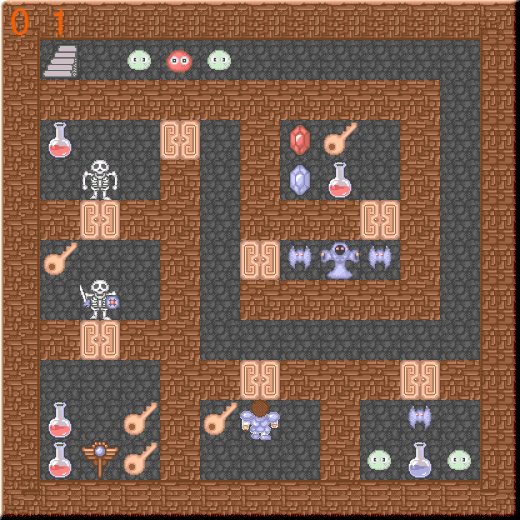
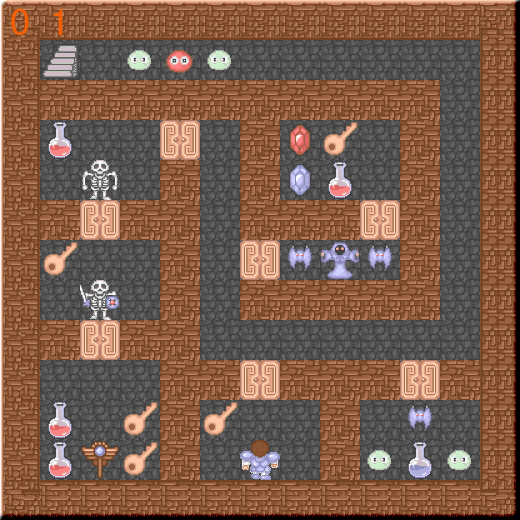
魔塔1: 实机(08 Java)确认值回填 —— 起点 (6,11)、初始 1000/100/100/0、按键映射与 keyUp 要求
08 实机（Xvfb + 反射 keyDown(java.awt.Event,int)）读得：
 - mapObject[66..69][118] = 1000/100/100/0（与 01 的 INITIAL.DAT 头部 u16[0..2]=1000/100/100 一致）；
 - 1F 勇者起点格为 (6,11)（charaX=30,charaY=55），我先前渲染的 (6,10) 是错的 ⇒ 图与文档均已更正；
 - 按键：上 56 / 右 54 / 下 52 / 左 50，且必须补发 keyUp，否则下一次按键被吞。
作废一个错误说法：我曾把字段 xp=150 读成"08 开局 HP150/ATK10/DEF10"，实际 xp/yp 是地图区像素原点。
MAP_NOTES 新增 §9：速通验证进度、3F 魔导师(obj58, DEF100 ⇒ ATK100 每击 0)未复现触发条件、
以及"若魔导师在进 3F 时存在则 3F 静态 BFS 到不了上行梯"的推论与环境重跑命令。

Changed region(s): [[0.4615, 0.7692, 0.5538, 0.9231]]

diff --git a/01_PC98原版_mtower/MAP_NOTES.md b/01_PC98原版_mtower/MAP_NOTES.md
@@ -35,7 +35,7 @@
   `slot8 = 图鉴 catalog`，`slot9 = stage_flags`。序号 51/53..58 未用。
 - 引擎里 `mapX`=slot、`mapY`=band，楼层序号 = `mapY*10 + mapX + 1`；`eventMT` 里两处硬编码特例
   `index==1 ↔ index==52` 构成 **1F 与 00 层互连**（两块的楼梯都在 (1,1)）——所以 23F 的 "GO 0F" 只是提示，
-  49F/50F 与 00 层无关。角色格 = `charaX/5 × charaY/5`（1F 起点 (6,10)）。
+  49F/50F 与 00 层无关。角色格 = `charaX/5 × charaY/5`（1F 起点 (6,11)，08 实机确认）。
 - 主角与道具状态也塞在 stage_flags 块里：HP/ATK/DEF/GOLD = `mapObject[66..69][118]`，
   「持有十字架」`mapObject[74][119]==1`（对 id 48/49/59 翻倍）、「持有屠龙匕」`mapObject[70][120]==1`（对 id 74 翻倍）。
 
@@ -124,3 +124,17 @@
 | `magic_tower1_texts.md` | 309 条塔内文案（日/英 + 引用方式 + 出现层 + 12 个分组），从 README 拆出 |
 | `tools/` | `dynscan.py` `register_boss.py` `gen_monster_table.py` `gen_texts.py` |
 | `01_PC98原版_mtower.fdi` / `game/` | 原始软盘映像与其内 23 个文件 |
+
+## 9. 速通验证进度与实机测得的关键值（2026-10-23）
+
+- **实机（08 Java 版，Xvfb + 反射 `keyDown(java.awt.Event,int)`）已确认**：
+  初始 `mapObject[66..69][118] = 1000/100/100/0`；1F 起点格 **(6,11)**；按键映射 **上=56、右=54、下=52、左=50**；
+  必须补发 `keyUp`，否则下一次按键会被吞（我第一版就因此"111 键还在 1F"）。
+- **1F~5F 每只怪在 ATK100 下都是一击致命**（怪 DEF 最大 68，除 `obj15 門番B` DEF110 打不动），
+  故理论伤害为 0；但 `obj58 魔導師`（DEF100，ATK100 ⇒ 每击 0）**同样打不动**，而且它**不在静态层里**，
+  是 `eventMT` 写入 3F 的 (5,8)(4,9)(6,9)(5,10) — 用户提示的"3 楼惊喜"即此点，**尚未实机复现触发条件**。
+- 3F 一旦那 4 格成立，静态 BFS 显示入口侧只剩 26 格、到不了上行梯 ⇒ 若魔导师在进 3F 时即存在，则
+  "rush 到 5F 拿铁剑"的路线不成立，必须先解决 +10 攻的来源（而铁剑本身在 5F）。
+- 沙箱内实机装载不稳（贴图 45~60 s，偶尔卡在标题 `strNumber=280`）；重跑用
+  `xvfb-run -a -n 77 env LD_LIBRARY_PATH=$A/prefix/usr/lib/x86_64-linux-gnu $A/prefix/usr/lib/jvm/default-java/bin/java -cp . Walk <log> <按键串>`，
+  驱动源码在 `08_Java_MTower08a/game/{Boot,Play,Walk}.java`。

diff --git a/01_PC98原版_mtower/README.md b/01_PC98原版_mtower/README.md
@@ -51,10 +51,10 @@
 ![魔塔1 五十层全图（含 00 层）](map_50f.png)
 
 *`map_50f.png`（5 列 × 11 行的层块网格 = 00 层 + 1~50 层，顶行第 1 列即 00 层）。图例：压暗砖墙＝暗墙 / 隐形块 / 事件后可开的墙；
-半透明道具＝事件后才出现的隐藏物体，同格多对象时以主图 + 角上贴片叠画；每层左上角两位橙色数字为层号；1F 的 (6,10) 为**勇者起点**（不透明贴 `imgCrop[0]`）。
+半透明道具＝事件后才出现的隐藏物体，同格多对象时以主图 + 角上贴片叠画；每层左上角两位橙色数字为层号；1F 的 **(6,11)** 为**勇者起点**（不透明贴 `imgCrop[0]`，08 实机确认）。
 单层放大图见 `floors/`。*
 
-> 勇者起点：1F `(6,10)`。依据是 08 Java 版运行时的 `charaX/5, charaY/5 = (6,10)` 与其方向帧字段
+> 勇者起点：1F `(6,11)`（08 实机读取 `charaX=30,charaY=55` ⇒ 格 (6,11)）。方向帧字段
 > `cropIDchara`（init/开局值为 0，故勇者用 `imgCrop[0]` 绘制）。**注意**：01 自带的 `INITIAL.DAT`
 > 头部是 `HP=1000 / ATK=100 / DEF=100`（即神剑神盾存档，非 150/10/10 的开局），其位置字段（`+8=1`、`+10=1`、`+26=1280`）我未能解出，
 > 所以起点格是按 08 运行时取值的，尚未与 01 交叉验证。
